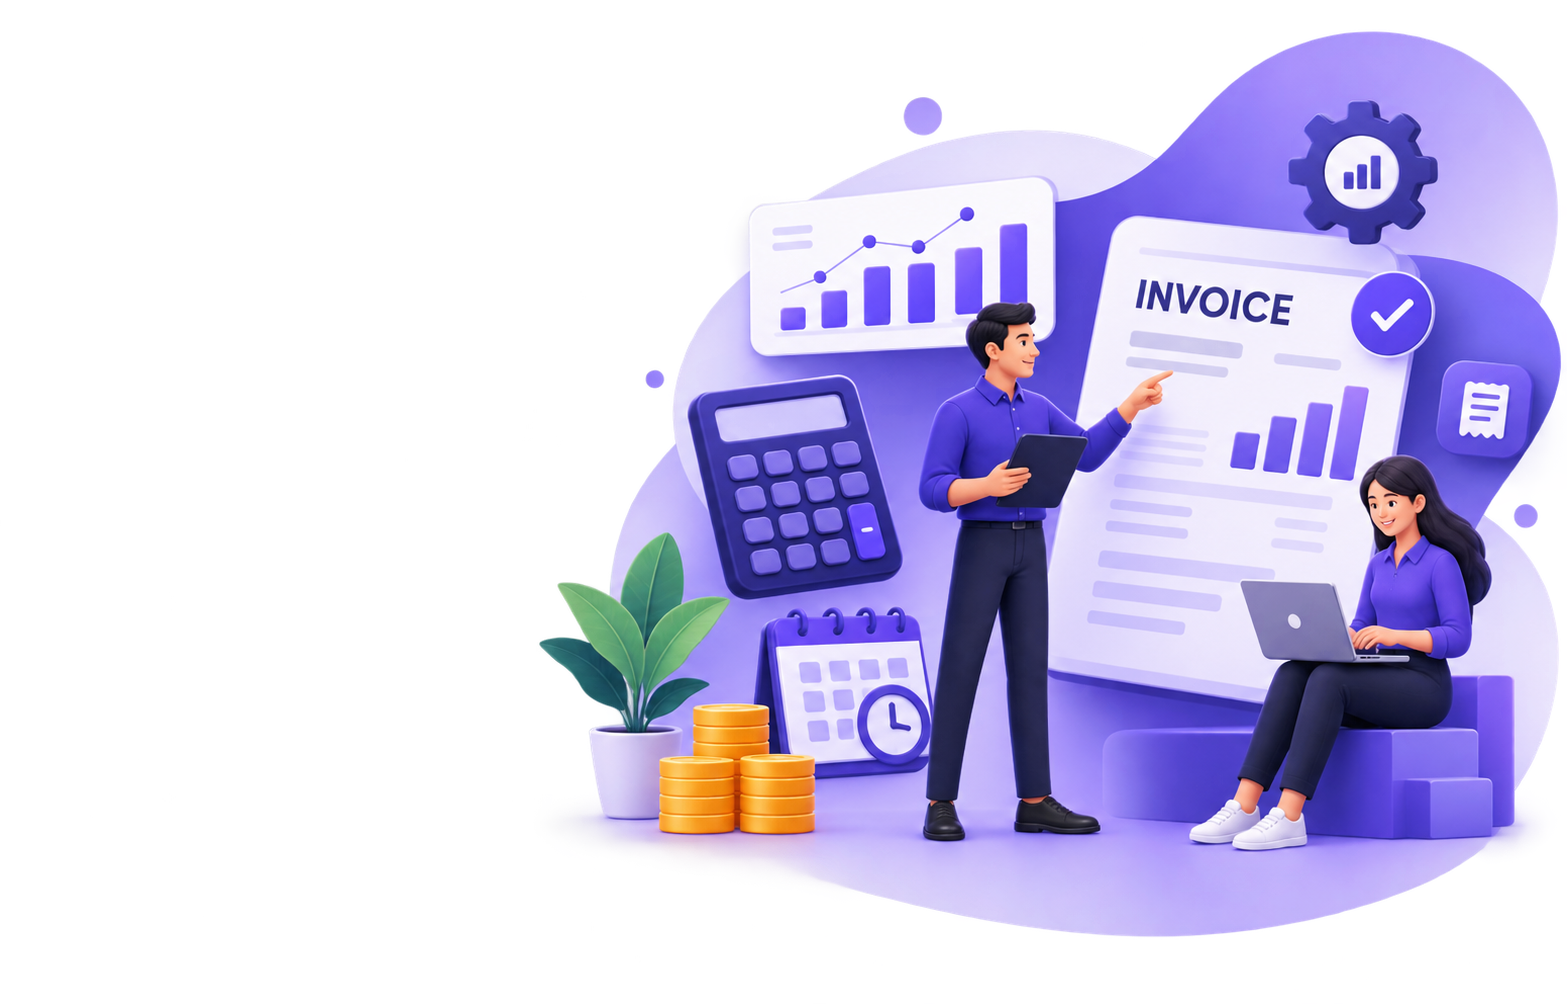
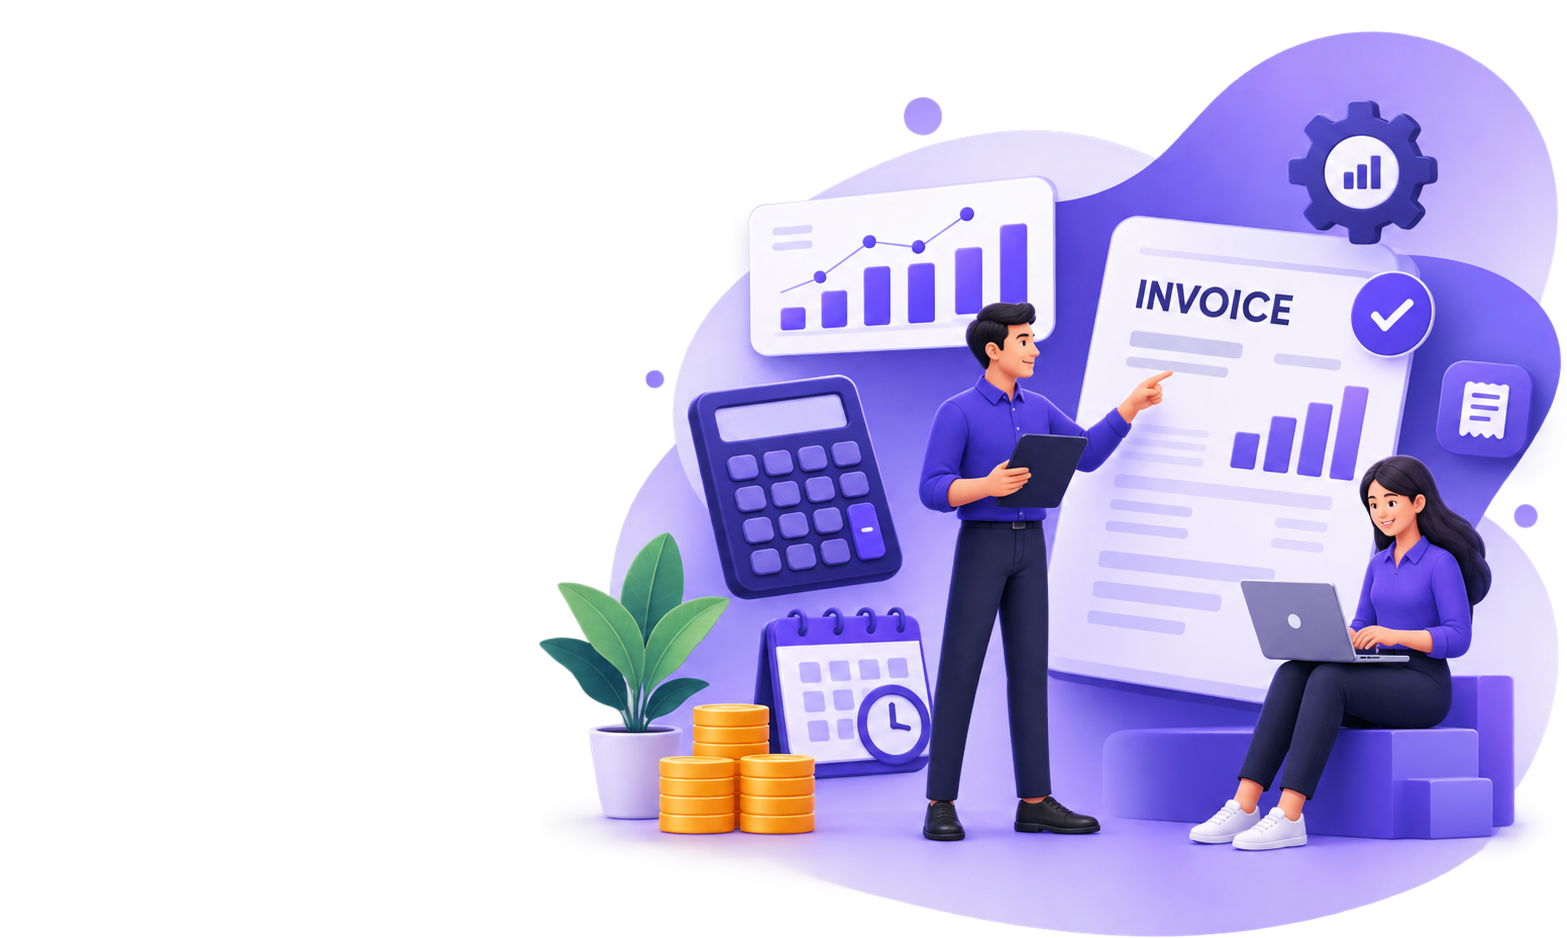
feat(auth): crop 66px transparent bottom padding from admin.png so illustration touches bottom edge

diff --git a/client/src/components/auth/modernLogin.css b/client/src/components/auth/modernLogin.css
@@ -118,6 +118,7 @@
   justify-content: flex-end;
   pointer-events: none;
   z-index: 15;
+  margin-bottom: 0;
 }
 
 .modern-admin-hero-img {
@@ -126,6 +127,9 @@
   max-height: 84vh;
   object-fit: contain;
   object-position: bottom right;
+  display: block;
+  vertical-align: bottom;
+  margin-bottom: 0;
   filter: drop-shadow(0 22px 46px rgba(0, 0, 0, 0.34));
   pointer-events: none;
   user-select: none;
